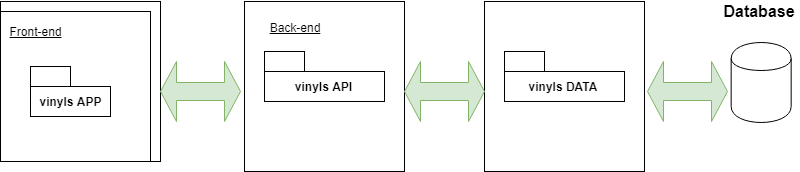
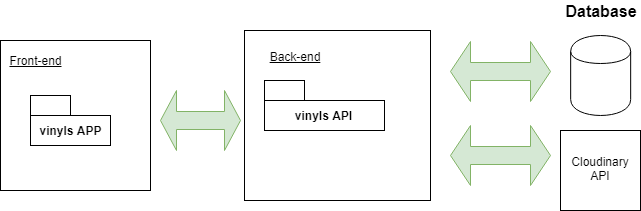
docs done

diff --git a/staff/gianluca-bragaglia/vinyls/vinyls-app/src/components/SearchListUsers/index.js b/staff/gianluca-bragaglia/vinyls/vinyls-app/src/components/SearchListUsers/index.js
@@ -1,6 +1,5 @@
 import React, { Component } from 'react'
 import logic from '../../logic'
-import Error from '../Error'
 import UserListItem from '../UserListItem'
 import { Input } from 'mdbreact'
 import './index.css'
@@ -31,7 +30,7 @@ class SearchListUsers extends Component {
 
     render() { 
 
-        const { users, error } = this.state
+        const { users } = this.state
 
         return ( 
 

diff --git a/staff/gianluca-bragaglia/vinyls/vinyls-app/src/components/SearchListVinyls/index.js b/staff/gianluca-bragaglia/vinyls/vinyls-app/src/components/SearchListVinyls/index.js
@@ -30,7 +30,7 @@ class SearchListVinyls extends Component {
 
     render() { 
 
-        const { vinyls, error } = this.state
+        const { vinyls } = this.state
 
         return ( 
 

diff --git a/staff/gianluca-bragaglia/vinyls/docs/README.md b/staff/gianluca-bragaglia/vinyls/docs/README.md
@@ -10,7 +10,7 @@ Each user has a profile page where they can see their data as related vinyls.
 
 The user can have a section where they can edit their personal data, profile photo, edit or delete his vinyls.
 
-### Use cases diagram
+## Use cases diagram
 
 ![Use cases](images/use-cases.png)
 
@@ -26,22 +26,17 @@ The front end of the application was built using React. The back end is connecte
 ![Block Diagram](images/block-diagram.png)
 
 ## Components Diagram
-The application has some react components, the business logic and the two APIs used: Ticketmaster and Skylabcoders.
+The application has some react components, the front-end logic, the API back-end, the Api logic connected to the data that interacts with the mongoDB Database.
 
 ![Components Diagram](images/components-diagram.png)
 
-## Sequence Diagram
-The most significant tasks of the application are those that use the APIs. Skylab Coders API is used to save the user data (for register and login purposes) and the user’s favourites list. Ticketmaster API is used to search for events and display its details when an event is clicked.
+## Data model
 
-![Components Diagram](images/sequence-diagram-1.png)
+The Application has 3 data models, User, Vinyl and Comment that is embedded in Vinyl.
 
-![Components Diagram](images/sequence-diagram-2.png)
-
+![Data Model](images/data-model-diagram.png)
 
 
-
-## Entity Relation Diagram
-![Data diagram](images/data-diagram.png)
 
 ## Technology Stack
 
@@ -51,6 +46,7 @@ The most significant tasks of the application are those that use the APIs. Skyla
 * React
 * React Router
 * MD Bootstrap React
+* APIs
 * Node js
 * Express
 * Mongoose
